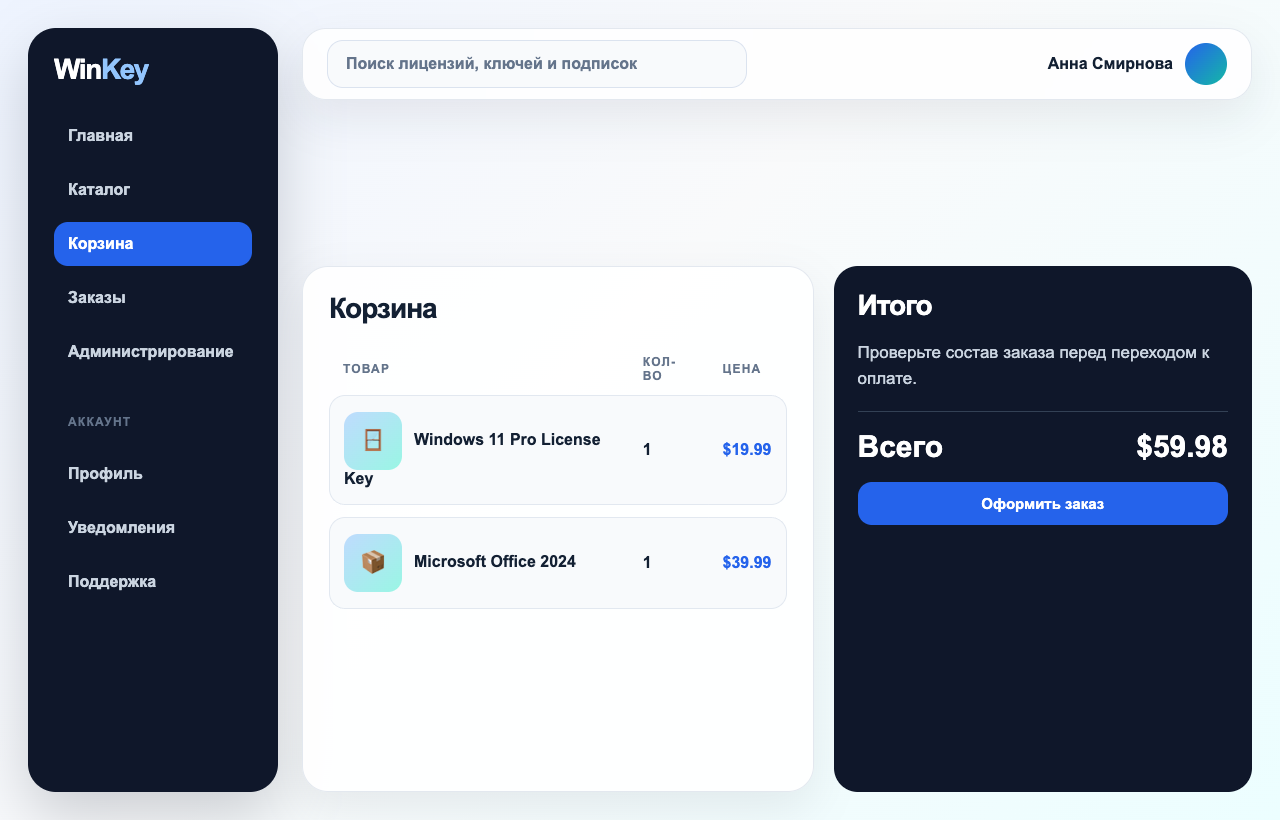
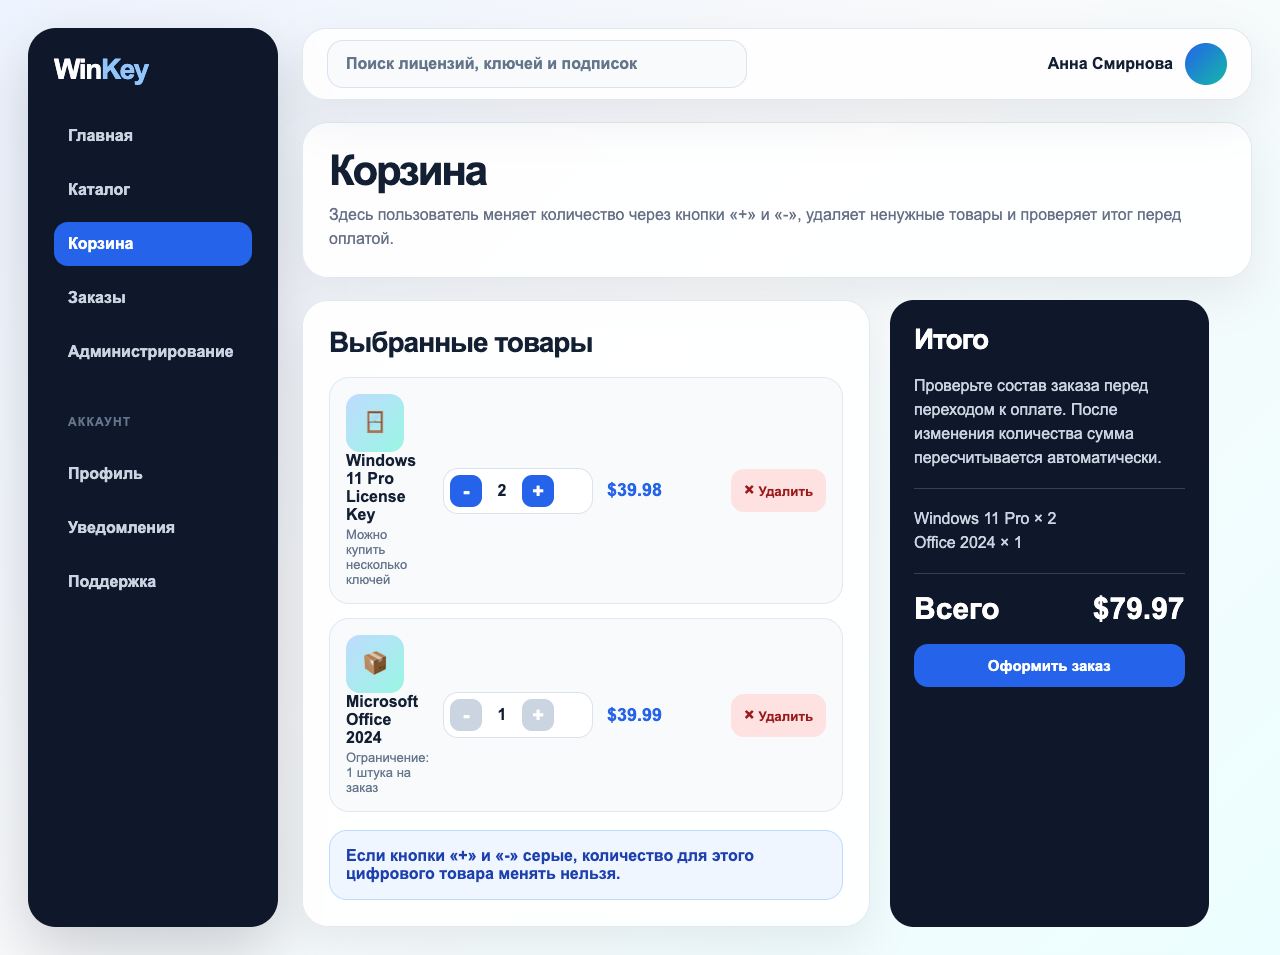
Show cart quantity controls in wiki copy

diff --git a/practice_10/user_wiki/Cart.md b/practice_10/user_wiki/Cart.md
@@ -9,7 +9,7 @@
 <a id="fig-1"></a>
 ![Корзина WinKey](images/wiki-cart.png)
 
-**Рисунок 1 - Корзина WinKey со списком товаров и итоговой суммой.**
+**Рисунок 1 - Корзина WinKey: изменение количества кнопками «+» и «-», удаление товара и пересчет итоговой суммы.**
 
 ## Как открыть корзину
 

diff --git a/practice_10/user_wiki/Interface-HTML-CSS.md b/practice_10/user_wiki/Interface-HTML-CSS.md
@@ -30,7 +30,7 @@
 
 ![Корзина WinKey](images/wiki-cart.png)
 
-**Рисунок 4 - Корзина со списком товаров и итоговой суммой.**
+**Рисунок 4 - Корзина с кнопками изменения количества, удалением товара и итоговой суммой.**
 
 <a id="fig-5"></a>
 ## Рисунок 5 - Оформление заказа
